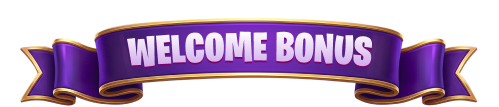
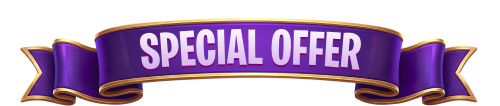
Update hero image alt text and welcome bonus asset

diff --git a/index.html b/index.html
@@ -1,23 +1,23 @@
 <!doctype html>
 <html lang="en">
-  <head>
-    <meta charset="UTF-8" />
-    <link rel="icon" type="image/png" href="/src/assets/logo.png" />
-    <meta name="viewport" content="width=device-width, initial-scale=1.0" />
-    <meta
-      name="description"
-      content="CoinsRaid Welcome Bonus — claim 100,000 GC + 1 Free SC and start playing 2000+ free games."
-    />
-    <link rel="preconnect" href="https://fonts.googleapis.com" />
-    <link rel="preconnect" href="https://fonts.gstatic.com" crossorigin />
-    <link
-      href="https://fonts.googleapis.com/css2?family=Sora:wght@400;500;600;700;800&family=Poppins:wght@400;500&family=Barlow+Condensed:wght@600;700;800&family=Manrope:wght@400;500;600;700;800&display=swap"
-      rel="stylesheet"
-    />
-    <title>CoinsRaid — Welcome Bonus</title>
-  </head>
-  <body>
-    <div id="root"></div>
-    <script type="module" src="/src/main.tsx"></script>
-  </body>
+
+<head>
+  <meta charset="UTF-8" />
+  <link rel="icon" type="image/png" href="/src/assets/logo.png" />
+  <meta name="viewport" content="width=device-width, initial-scale=1.0" />
+  <meta name="description"
+    content="CoinsRaid Special Offer — claim 800,000 GC + 75 Free SC and start playing 2000+ free games." />
+  <link rel="preconnect" href="https://fonts.googleapis.com" />
+  <link rel="preconnect" href="https://fonts.gstatic.com" crossorigin />
+  <link
+    href="https://fonts.googleapis.com/css2?family=Sora:wght@400;500;600;700;800&family=Poppins:wght@400;500&family=Barlow+Condensed:wght@600;700;800&family=Manrope:wght@400;500;600;700;800&display=swap"
+    rel="stylesheet" />
+  <title>CoinsRaid — Special Offer</title>
+</head>
+
+<body>
+  <div id="root"></div>
+  <script type="module" src="/src/main.tsx"></script>
+</body>
+
 </html>

diff --git a/src/components/sections/Hero.tsx b/src/components/sections/Hero.tsx
@@ -28,7 +28,7 @@ export default function Hero() {
         />
         <img
           src={welcomeBonus}
-          alt="Welcome Bonus"
+          alt="Special Offer"
           className="absolute inset-x-0 top-0 z-10 w-full px-4"
         />
         <div className="absolute inset-x-0 top-[13%] z-10 flex flex-col items-center px-6">
@@ -65,7 +65,7 @@ export default function Hero() {
 
         <img
           src={welcomeBonus}
-          alt="Welcome Bonus"
+          alt="Special Offer"
           className="absolute left-1/2 top-[6.28%] z-10 w-[34.74%] -translate-x-1/2"
         />
 
